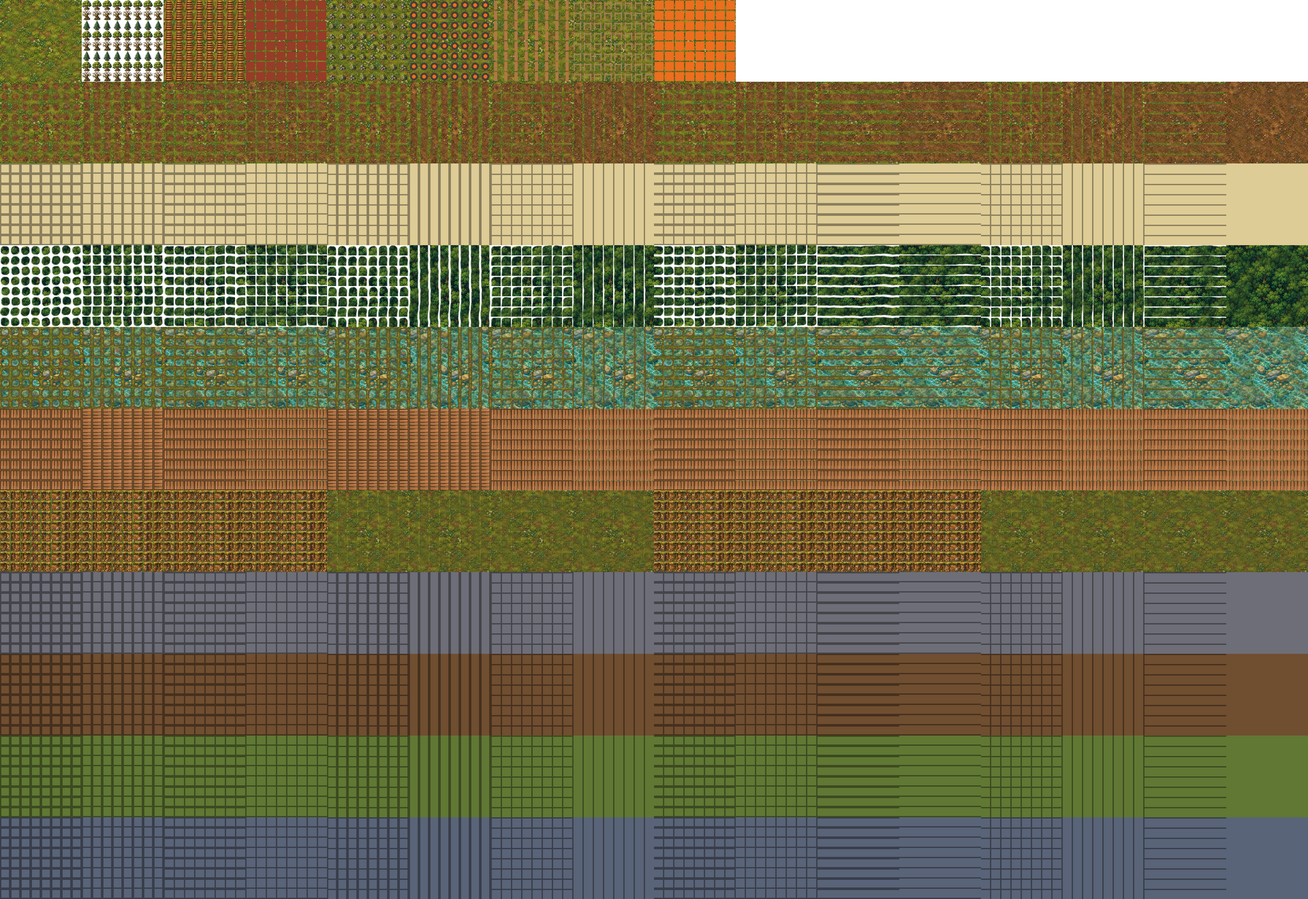
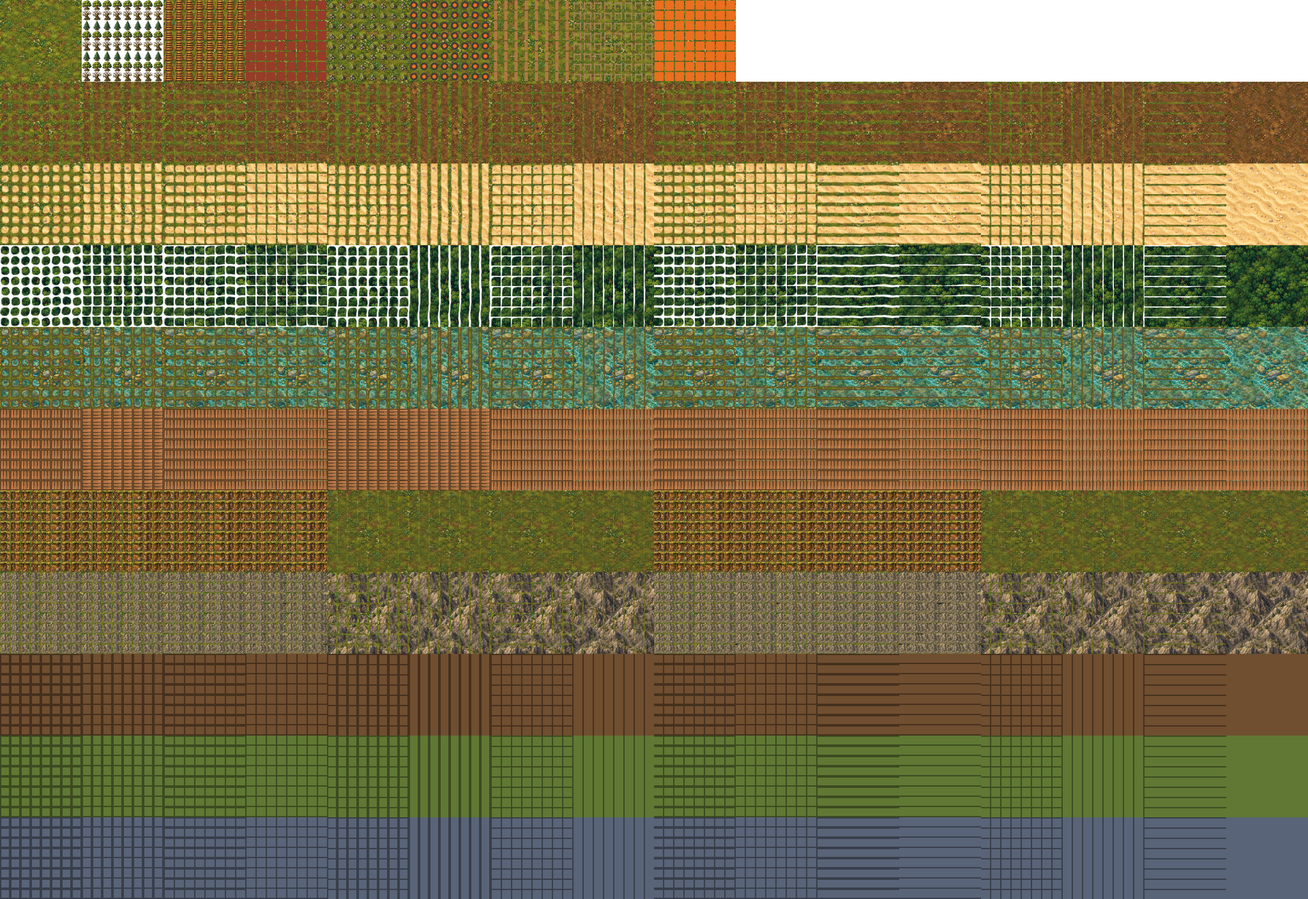
feat(map): bake mountain and sand from the Codex art
Mountain (^) and sand (:) no longer bake as flat placeholder colours.
The tile-ready pieces come from the overworld-mountain-sand batch:

- tex-mountain and tex-sand, 256px seamless textures.
- mountain-foot, a 128x32 strip seamless left to right: the rock face
  where a mountain's open south side stands on the grass.

Mountain edges fade to the grass like the forest; the south side shows
the foot instead. Sand fades like the dirt path and now joins water, so
beaches run to the shoreline.

Claude-Session: https://claude.ai/code/session_01Cdk2iJGQbV62Qbe1wj8GQY

Changed region(s): [[0.0, 0.625, 1.0, 0.75], [0.0, 0.1562, 1.0, 0.2812]]

diff --git a/tools/generate-grid-tileset.ts b/tools/generate-grid-tileset.ts
@@ -53,13 +53,16 @@ const art = {
 	dirt: await load('tex-dirt'),
 	water: await load('tex-water'),
 	forest: await load('tex-forest'),
+	mountain: await load('tex-mountain'),
+	sand: await load('tex-sand'),
 	cliffFace: await load('cliff-face'),
+	mountainFoot: await load('mountain-foot'),
 	bridgeDeck: await load('bridge-deck'),
 	stairs: await load('stairs'),
 	trees: [await load('tree-1'), await load('tree-2'), await load('tree-3')],
 	rocks: [await load('rock-1'), await load('rock-2')]
 };
-for (const name of ['grass', 'dirt', 'water', 'forest'] as const) {
+for (const name of ['grass', 'dirt', 'water', 'forest', 'mountain', 'sand'] as const) {
 	if (art[name].width !== PERIOD || art[name].height !== PERIOD) {
 		throw new Error(`art/overworld/tex-${name}.png must be ${PERIOD}×${PERIOD}`);
 	}
@@ -145,6 +148,9 @@ const PATH_EDGE: EdgeStyle = { inset: 3, soft: 4, wobble: 2.5, radius: 10 };
 const BANK_EDGE: EdgeStyle = { inset: 1, soft: 3, wobble: 2, radius: 10 };
 const WATER_EDGE: EdgeStyle = { inset: 4, soft: 2, wobble: 2, radius: 10 };
 const FOREST_EDGE: EdgeStyle = { inset: 1, soft: 3, wobble: 3, radius: 12 };
+const MOUNTAIN_EDGE: EdgeStyle = { inset: 1, soft: 3, wobble: 3, radius: 12 };
+/** Under the mountain foot the rock stops halfway down the tile, so grass shows below the scree. */
+const MOUNTAIN_FOOT_EDGE: EdgeStyle = { inset: 16, soft: 6, wobble: 3, radius: 12 };
 const CLIFF_END: EdgeStyle = { inset: 0, soft: 3, wobble: 1.5, radius: 0 };
 const STRAIGHT_EDGE: EdgeStyle = { inset: 0, soft: 1, wobble: 0, radius: 0 };
 
@@ -155,8 +161,6 @@ const RAIL_TOP: Rgba = [140, 98, 58, 1];
 
 /** Placeholder colours for terrain that has no art yet. */
 const PLACEHOLDER: Partial<Record<TerrainGlyph, Rgb>> = {
-	':': [222, 204, 150],
-	'^': [110, 110, 120],
 	P: [112, 78, 48],
 	'!': [150, 60, 40],
 	'%': [96, 120, 52],
@@ -217,6 +221,16 @@ function paintAutotile(
 	switch (glyph) {
 		case ',':
 			return over(grass(x, y), sample(art.dirt, x, y), coverage(mask, x, y, PATH_EDGE));
+		case ':':
+			return over(grass(x, y), sample(art.sand, x, y), coverage(mask, x, y, PATH_EDGE));
+		case '^': {
+			const rock = sample(art.mountain, x, y);
+			if (mask & EDGE_S) return over(grass(x, y), rock, coverage(mask, x, y, MOUNTAIN_EDGE));
+			// The open south side is the foot of the mountain: a rock face standing on the grass.
+			const ground = over(grass(x, y), rock, coverage(mask, x, y, MOUNTAIN_FOOT_EDGE));
+			const ends = coverage(mask | EDGE_N | EDGE_S, x, y, CLIFF_END);
+			return over(ground, sample(art.mountainFoot, x, y % TILE), ends);
+		}
 		case '~': {
 			const bank = over(grass(x, y), BANK, coverage(mask, x, y, BANK_EDGE));
 			return over(bank, sample(art.water, x, y), coverage(mask, x, y, WATER_EDGE));

diff --git a/src/lib/game/content/maps/grid/legend.ts b/src/lib/game/content/maps/grid/legend.ts
@@ -20,7 +20,7 @@ export interface TerrainDefinition {
 export const TERRAIN_LEGEND = {
 	'.': { name: 'grass', blocks: false, layer: 'ground', autotile: false },
 	',': { name: 'dirt path', blocks: false, layer: 'ground', autotile: true, connects: '=H' },
-	':': { name: 'sand', blocks: false, layer: 'ground', autotile: true },
+	':': { name: 'sand', blocks: false, layer: 'ground', autotile: true, connects: '~' },
 	'=': { name: 'bridge', blocks: false, layer: 'ground', autotile: true, connects: ',' },
 	H: { name: 'stairs', blocks: false, layer: 'ground', autotile: false },
 	T: { name: 'dense forest', blocks: true, layer: 'canopy', autotile: true },

diff --git a/CLAUDE.md b/CLAUDE.md
@@ -277,7 +277,7 @@ or opens it with a story overlay if the story keeps it shut for a while;
 | ----- | ------------- | ------ | ---------------------------------- |
 | `.`   | grass         | no     | base ground                        |
 | `,`   | dirt path     | no     | autotile, joins `=` and `H`        |
-| `:`   | sand          | no     | autotile                           |
+| `:`   | sand          | no     | autotile, joins `~`                |
 | `=`   | bridge        | no     | autotile, joins `,`; lay it on `~` |
 | `H`   | stairs        | no     | cuts through `#` cliffs            |
 | `T`   | dense forest  | yes    | autotile, drawn above actors       |
@@ -297,8 +297,9 @@ or opens it with a story overlay if the story keeps it shut for a while;
 
 The tileset image is `public/game/assets/overworld/tiles.png`, baked by `bun run map:tileset`
 (`tools/generate-grid-tileset.ts`) from the tile-ready pieces in `art/overworld/`: 256px seamless
-textures and 32px sprites cut from the approved Codex art. Terrain without art yet (mountain,
-sand, palisade and the village props) bakes as flat placeholder colours. `grid/tileset.ts` fixes
+textures, the cliff and mountain-foot strips, and 32px sprites cut from the approved Codex art
+(briefs in `docs/art/`). Terrain without art yet (palisade, sealed gate and the village props)
+bakes as flat placeholder colours. `grid/tileset.ts` fixes
 the layout as a sheet of slots: row 0 holds the single tiles, and each autotile terrain owns one
 row of 16 slots indexed by its N=1/E=2/S=4/W=8 edge mask. Each slot is 8×8 tiles cut from one
 piece of art, and the map tile at (col, row) draws variant (col % 8, row % 8), so textures repeat
